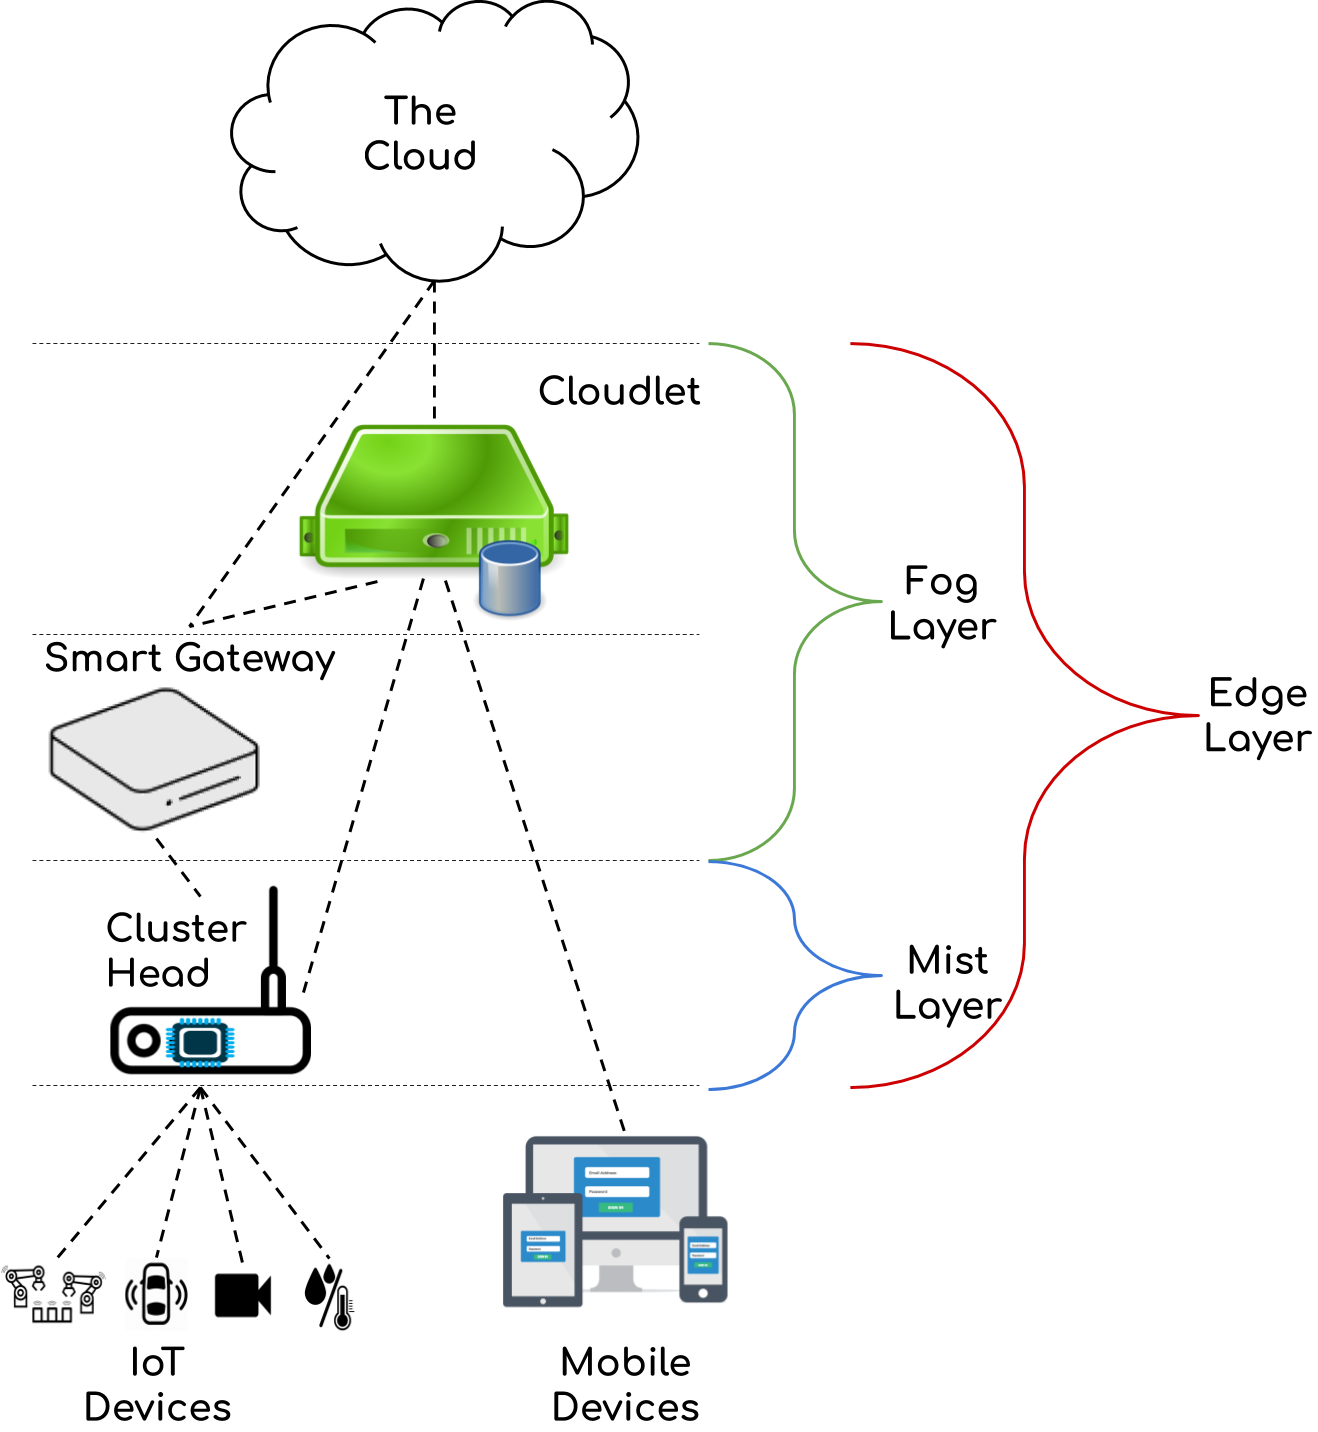
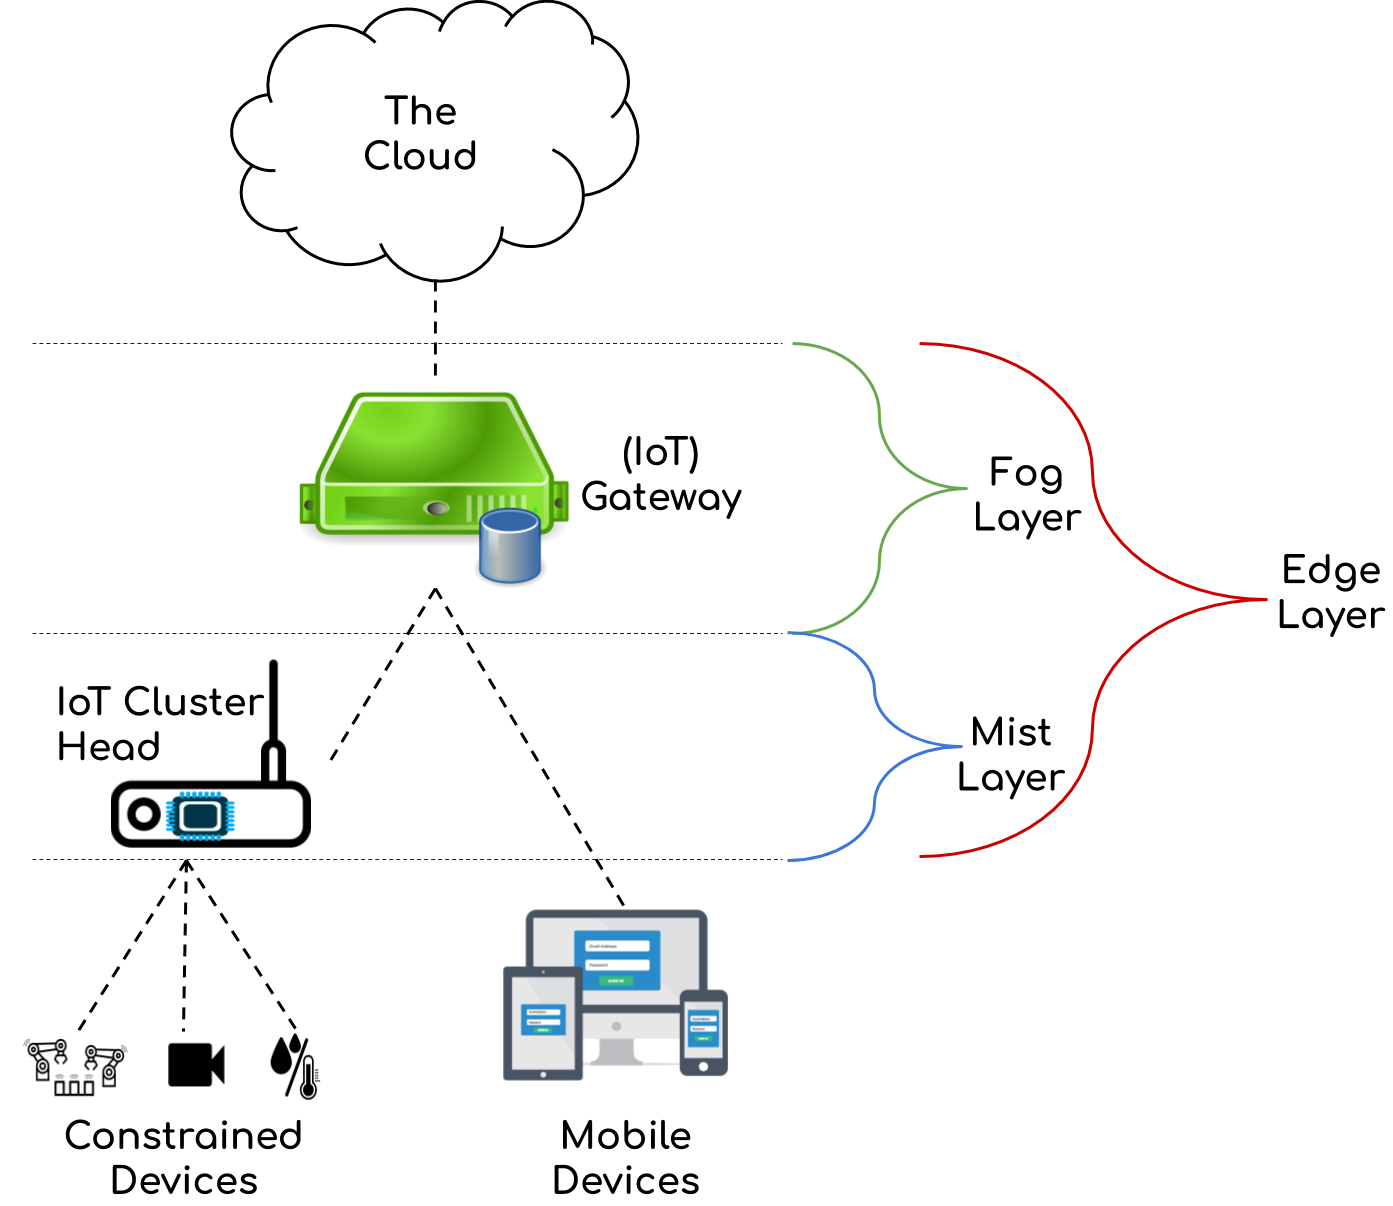
started sota

diff --git a/sections/2-extendedSota/3-Definitions.tex b/sections/2-extendedSota/3-Definitions.tex
@@ -4,59 +4,43 @@ https://www.iaria.org/conferences2016/filesICSNC16/Softnet2016_Tutorial_Fog-MEC-
 this paper has it nailed down with terms https://arxiv.org/pdf/1812.00591.pdf 
 }
 
-\subsection{Definitions} \label{sec:definitions}
-The IoT communication landscape is often hard to understand, especially because terms are loosely and inconsistently defined. The same is true for the cloud but to a lesser extend. It uses less diverse technologies and which makes it less confusion. This section will explain the network topology, key terms and their concepts as the foundation for the following report.\\
+\subsection{Terms and Definitions} \label{sec:definitions}
+The IoT and edge landscape is hard to understand, especially because terms are loosely and inconsistently defined. Similar is true for the cloud but it uses less diverse technologies and is thus less confusing. This section will explain the network topology, key terms and their concepts as the foundation for the following report.\\
 \vspace{0.5mm} \ \\
 \textbf{\textit{Network Topology}}\\
 \Cref{fig:networkTopology3Layer} shows the network topology used in this report. 
 % The focus will be on the management and security of the device edge as well as its interaction with the IoT devices themselves. 
-\begin{figure}[h!]
+\begin{figure}[H]
     \centering
-    \includegraphics[scale=0.15]{figures/network-topology-3-layer.png}
+    \includegraphics[scale=0.2]{figures/network-topology-3-layer.png}
     \caption{Three tier layer network topology, similar to \cite{nsa2017NextWaveIoTDef}}
     \label{fig:networkTopology3Layer}
 \end{figure}
 
-The upper two layers, the cloud and cloudlets, have a shared control plane. In case the edge deploys its own control plane without connection to the cloud, we will still refer to these devices as cloudlets. The cloud is defined by always available and infinite data storage and processing power. In  is operated by the network providers and is mainly used to provide access to the network to households and companies. It provides some services, e.g. to improve network characteristics such as to lower latency. But, devices operating in this layer are not directly related to IoT and thus excluded in this report.\\
-The device edge is operated by normal households and other non network-related businesses. It is respsonsible for the control and data plane of the constrained devices (explained below). The data produced from these devices can be aggregated and processed in this layer. The benefits of doing so are discussed in chapter xxx.\\[5mm]
+The cloud is well defined and understood. It describes the readily available computing resources over the Internet not managed by the user. The other layers and devices are not so well understood and defined separately.
 \textbf{\textit{Constrained Device}}\\
-Constraint devices are an elementary part of the IoT 
-making up the "things"\cite{contstraintDevicesTerminology}.
-They can have three main purposes.
-Either sensing or actuating (or both), where sensing is the 
-passive action of measuring the environment (e.g. a motion detector) and actuating is the active action of influencing the environment (e.g. control of pressure in test tube). Or, finally, they can be smart objects enhancing the interaction between other smart objects and people.\\
-They are usually defined by their limitation, mainly, small computing power (CPU, RAM, storage etc.) and limited power supply and operate in constrained network\footnote{See \cite{contstraintDevicesTerminology} page 5 for more information.}.\\
-In summary, it is fair to assume that many constrained devices have very limited computing power, operate on battery in constrained networks using protocols like BLE and ZigBee. \\
-\vspace{0.5mm} \ \\
+Constraint devices are an elementary part of the IoT making up the "things"\cite{contstraintDevicesTerminology}.
+They can have three main purposes. Either sensing or actuating (or both), where sensing is the 
+passive action of measuring the environment (e.g. a motion detector) and actuating is the active action of influencing the environment (e.g. control of pressure in test tube). Or, finally, they can be smart objects enhancing the interaction between other smart objects and people.
+They are usually defined by their limitation, mainly, small computing power (CPU, RAM, storage etc.) and limited power supply and operate in constrained network using protocols like BLE and ZigBee. \\[5mm]
 \textbf{\textit{Smart/mobile devices}}\\
-Smart devices are not clearly defined in the academic literature. In this report I will use the definition given by \citeauthor{poslad2011smartDevices}\cite{poslad2011smartDevices}, to clearly divide them from constrained devices. They are traditional computing devices and "tend to be multi purpose ICT devices"\cite{poslad2011smartDevices}, examples are mobile phones (smart phones) or tablets. They connect to the rest of the infrastructure directly but are free to move between networks. They also often rely on battery power and, importantly, are mainly end user devices. This has important privacy implication and is a major factor for edge computing.\\
-\vspace{0.5mm} \ \\
+Smart devices are not clearly defined in the academic literature. I will use the definition given by \citeauthor{poslad2011smartDevices}\cite{poslad2011smartDevices}, to clearly divide them from constrained devices which this thesis will be concerned with. They are traditional computing devices and "tend to be multi purpose ICT devices"\cite{poslad2011smartDevices}, examples are mobile phones (smart phones) or tablets. They connect to the rest of the infrastructure directly but are free to move between networks. They also often rely on battery power and, importantly, are mainly end user devices. This has important privacy implication, a major factor for edge computing.\\[5mm]
+\textbf{\textit{IoT Cluster Head}}\\
+IoT Cluster Heads are defined by their very limited processing power. They are used to combine multiple sensors or actuators, but do not perform powerful operations. The line between IoT Cluster Heads and IoT Gateways is constantly moving as devices get more powerful and software more efficient. In this paper, IoT Cluster Heads are defined as devices which are used to read and control IoT devices but are not powerful enough to run containers or Kubernetes.
 \textbf{\textit{IoT Gateway}}\\
-IoT Gateways are the connection between constrained devices and a network, this could be a local network or even the Internet. They facilitate inter-network and intra-network communications and because smart devices and especially constrained devices often communicate via wireless and non-Internet protocols, IoT gateways often translate protocols "between wireless sensor networks [...] traditional communication networks"\cite{zhu2010iotGatewayDefinition}.
-In recent years IoT Gateways have become a major field of interest and new research. As these devices got more powerful, developers started using them for preprocessing and datagathering locally at the edge.
-In conclusion, IoT gateways can take a wide variety of forms. They can be simple L3 routers or more powerful devices. Importantly, they are situated at the edge of a network and act as bridge between two autonomous systems.\\
-\vspace*{0.5mm} \ \\
-\textbf{\textit{Edge node}}\\
-Edge nodes are defined as nodes "that act as an end user portal for communication with other
-nodes in cluster computing"\cite{Whatised17:edgeNodeDef}.
-It operates on the edge, it must be able to run containers, has far inferior processing power compared to servers and can (only) run as a worker node (also known as a minion in kubernetes)\cite{NodesKub7:edgeNodeMinion}. Note that, this is in contrast to IBM which defines edge nodes as ingress traffic nodes in a cluster\cite{IBMCloudEdgeNodes0:online}.
-In this report an edge node is a powerful IoT gateway situated at the edge of the network. Because of new and exciting developments it will not be restricted by the type of software it can run (it can thus be a master node as well), but rather by its network topology and mobility. It is a node without reliable and fast connection to the rest of the network, does not need a static IP and is (somewhat) portable\footnote{Comparing edge nodes to cloud nodes is also common academic practice\cite{contstraintDevicesTerminology}  but not considered at this point.}.
-Reoccurring themes are the restrictions compared to cloud clusters, which are smaller processing power,
-no permament connection to the backbone network and greater portability.\\
-\vspace{0.5mm} \ \\
+IoT gateways are the connection between constrained devices and the cloud. I will use the term IoT gateway and not only gateway to stress its relation with IoT. They are usually connected to a network, either local or the the Internet. They facilitate inter-network and intra-network communications and because smart devices and especially constrained devices often communicate via wireless and non-Internet protocols, IoT gateways often translate protocols "between wireless sensor networks [...] and traditional communication networks"\cite{zhu2010iotGatewayDefinition}.
+In recent years IoT Gateways have become a major field of interest and new research. As these devices got more powerful, developers started using them for pre-processing and data gathering locally at the edge.
+IoT gateways can take a wide variety of forms. They can be simple L2/L3 routers or more powerful devices. Importantly, they are situated at the edge of a network.\\[5mm]
+\textbf{\textit{Edge Layer}}\\
+The edge layer is a term used to describe all resources sitting at the edge of the network. They do not interact with their environment directly only through IoT or mobile devices. This line started to fade, when mobile devices where used to control IoT devices directly. In this research I will stick to definition that edge layer devices are no user facing devices.\\[5mm]
+\textbf{\textit{Fog Layer}}\\
+The fog layer and consequently fog computing is a term used to describe the logical extension of traditionally cloud resources to the edge. These devices are still connected to the overall system and are an active part in the data processing pipeline. Fog computing enables repeatable structure on the edge for better and more scalable performance.
+\textbf{\textit{Mist Layer}}\\
+The mist layer is not logically connected to the cloud and both are not part of the same system and function independently of each other. It can be that the cloud can indirectly control the mist layer through the fog devices but importantly the mist layer does not do tasks which were traditional done in the cloud. \\[5mm]
 \textbf{\textit{Edge cluster}}\\
-The term edge cluster is closely related to cluster technologies like Kubernetes or Mesos.
-Edge clusters are computers powerful enough to run a full control plane of the cluster technology.
-However, there is no clear definition of what constitutes 
-to an edge cluster in neither the academic literature nor the industry.
-They are more powerful edge nodes, often packing additional hardware like GPUs or SSDs.
-However, emerging technologies like tiny builds of a full Kubernetes cluster
-like K3s from Rancher Labs\cite{k3sLight14:online} make this distinction 
-between edge nodes and edge clusters
-increasingly difficult
+Edge clusters are two or more edge devices working together where one device needs to be powerful enough to run a full control plane of the cluster technology. With emerging technologies like tiny builds of a full Kubernetes cluster, e.g. K3s from Rancher Labs\cite{k3sLight14:online}, this is becoming increasingly easier and more popular.
 \footnote{Rancher provides a 40MB Kubernetes binary and claims that 500MB of RAM is sufficient 
 it stable.}.\\
-Because of their similarities, in this report the distinction between edge nodes and clusters will be solely
-made up on the cluster topology separating them on an architectural level.
-
-
+\textbf{\textit{Edge node}}\\
+Edge nodes are defined as nodes "that act as an end user portal for communication with other
+nodes in cluster computing"\cite{Whatised17:edgeNodeDef}. The other nodes can either be edge nodes as well or cloud nodes. Importantly, edge nodes do not need to be able to run their own control plane.

diff --git a/sections/2-extendedSota/4-existingSolutions.tex b/sections/2-extendedSota/4-existingSolutions.tex
@@ -1,6 +1,6 @@
 \subsection{Existing Solutions} \label{sec:existingSolutions}
 
-Traditionally, edge devices were isolated cluster heads mainly forwarding traffic from their slaves to the cloud. Today, they are an integral part of the data flow pre-processing data and executing part of the business logic. But, there are still no coherent architectural as well as technological standards. In this section we will compare widely adopted and developed solutions in the industry to detect similarities and differences. The solutions also differ in age and 
+Traditionally, IoT gateways were isolated and mainly forwarding traffic from their slaves to the cloud. Today, they can be integral part of the data processing pipeline executing part of the business logic close to where it happens. But, there are still no coherent architectural as well as technological standards. In this section we will compare widely adopted and developed solutions in the industry to detect similarities and differences. The solutions differ in age, industry wide adoption and technologies.
 
 % https://scholar.google.com/scholar?cluster=13680069378267225814&hl=de&as_sdt=0,5
 % https://www.pac-online.com/sites/pac-online.com/files/upload_path/PDFs/Thema_des_Monats_Juni_2017_IoT_Plattformen.pdf
@@ -8,7 +8,7 @@ Traditionally, edge devices were isolated cluster heads mainly forwarding traffi
 
 \subsubsection{Bosch IoT Gateway Solutions}
 \comment{https://www.bosch-iot-suite.com/service/gateway-software/}
-The Bosch IoT Gateway Software\cite{BoschIoT13:online} is the "oldest" software analyzed. It is based on the OSGi technology\cite{osgiDefintion25:online}, which is an aliance driven project from the Open Services Gateway initiative (OSGi). It defines a set of specifications (with reference implemetation and tests) for a dynamic modular system based on so called bundles, third party software, running on the Java Virtual Machine (JVM)\footnote{This means it is possible to use other languages apart from Java which can run in a JVM, e.g. Kotlin.}. It is important to note that Bosch also supplies a cloud part which is based on Kubernetes.\\
+The Bosch IoT Gateway Software\cite{BoschIoT13:online} is the "oldest" software analyzed. It is based on the OSGi technology\cite{osgiDefintion25:online}, an alliance driven project from the Open Services Gateway initiative (OSGi). It defines a set of specifications (with reference implemetation and tests) for a dynamic modular system based on so called bundles, third party software, running on the Java Virtual Machine (JVM)\footnote{This means it is possible to use other languages apart from Java which can run in a JVM, e.g. Kotlin.}. It is important to note that Bosch also supplies a cloud part which is based on Kubernetes.\\
 The OSGi framework consists of a layered model shown in \cref{fig:osgiLayerModel}. 
 \begin{figure}[h!]
     \centering
